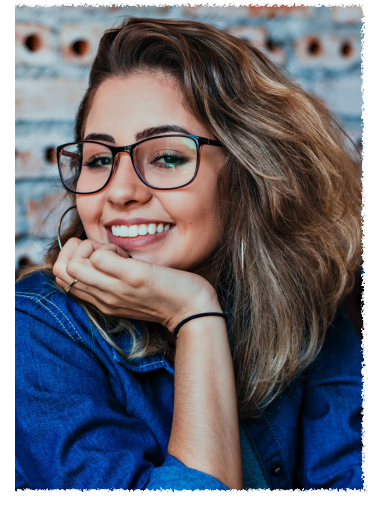
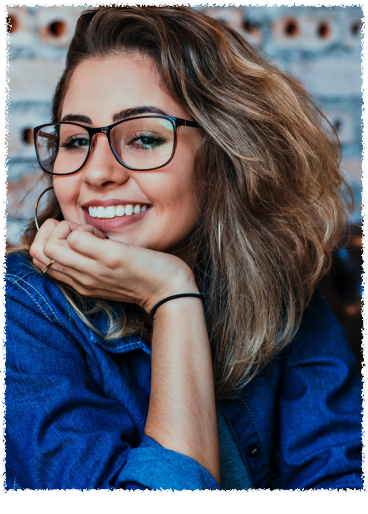
Слайдер с преподавателями

diff --git a/dev/index.html b/dev/index.html
@@ -11,6 +11,7 @@
     <link href="/css/blocks.css" rel="stylesheet">
 </head>
 <body>
+	<a href="slider.html">slider</a>
 	 <div class=" popUp" style="display: none" id="popUp">
 		<div class="popUp__window" id="popUpWindow">
 			<button class="popUp__close" id="closePopUpIcon"  aria-label="close popUp">
@@ -116,9 +117,9 @@
     	</section>
     	<section class="teachers" id="teachers">
     		<h1 class="teachers__title title title--blue">Наша команда</h1>
-    		<div class="teachers__photoContainer photoContainer">
+    		<div class="teachers__photoContainer teacherSlider">
     			<ul class="teachers__nav teacherSlider__nav">
-    				<li><button class="arrow" aria-label="Left click" id="teachersLeftButton">
+    				<li><button class="arrow arrow--disabled" aria-label="Left click" id="teachersLeftButton">
     					<svg width="80" height="55">
 							<use xlink:href="/img/sprite.svg#arrow"></use>
 						</svg>
@@ -129,20 +130,48 @@
 						</svg>
 					</button></li>
     			</ul>
-    			<ul class="teacherSlider__sliders">
-    				<li>
-		    			<figure class="teacherSlider__mainPhoto">
-		    				<img src="img/teachLitvinovaAnna.png" alt="Преподаватель — Литвинова Анна" width="380px" height="500px" class="teacherSlider__currentPhoto">
-		    				<figcaption class="teacherSlider__sign boldText">Литвинова Анна</figcaption>
-		    			</figure>
-    				</li>
-    				<li>
-		    			<figure class="teacherSlider__mainPhoto">
-		    				<img src="img/teachMelkinovaIrina.png" alt="Преподаватель — Литвинова Анна" width="380px" height="500px" class="teacherSlider__currentPhoto">
-		    				<figcaption class="teacherSlider__sign boldText">Мельникова Ирина</figcaption>
-		    			</figure>
-    				</li>    				
-    			</ul>
+    			<div>
+    			<div class="teacherSlider__viewport">
+	    			<ul class="teacherSlider__sliders" id="teachersSlider">
+	    				<li class="teacherSlider__slide">
+			    			<figure class="teacherSlider__mainPhoto">
+			    				<img src="img/teachSidorovaSofia.png" alt="Преподаватель — Сидорова София" width="380px" height="500px" class="teacherSlider__currentPhoto">
+			    				<figcaption class="teacherSlider__sign boldText">Сидорова София</figcaption>
+			    			</figure>
+	    				</li>     	    					    		
+	    				<li class="teacherSlider__slide">
+			    			<figure class="teacherSlider__mainPhoto">
+			    				<img src="img/teachTroitskaiMaria.png" alt="Преподаватель — Троицкая Мария" width="380px" height="500px" class="teacherSlider__currentPhoto">
+			    				<figcaption class="teacherSlider__sign boldText">Троицкая Мария</figcaption>
+			    			</figure>
+	    				</li>
+	    				<li class="teacherSlider__slide">
+			    			<figure class="teacherSlider__mainPhoto">
+			    				<img src="img/teachVolkovMihail.png" alt="Преподаватель — Волков Михаил" width="380px" height="500px" class="teacherSlider__currentPhoto">
+			    				<figcaption class="teacherSlider__sign boldText">Волков Михаил</figcaption>
+			    			</figure>
+	    				</li>      	
+	    				<li class="teacherSlider__slide">
+			    			<figure class="teacherSlider__mainPhoto">
+			    				<img src="img/teachPavlovAlexander.png" alt="Преподаватель — Павлов Александр" width="380px" height="500px" class="teacherSlider__currentPhoto">
+			    				<figcaption class="teacherSlider__sign boldText">Павлов Александр</figcaption>
+			    			</figure>
+	    				</li>
+	    				 <li class="teacherSlider__slide">
+			    			<figure class="teacherSlider__mainPhoto">
+			    				<img src="img/teachLitvinovaAnna.png" alt="Преподаватель — Литвинова Анна" width="380px" height="500px" class="teacherSlider__currentPhoto">
+			    				<figcaption class="teacherSlider__sign boldText">Литвинова Анна</figcaption>
+			    			</figure>
+	    				</li> 
+	    				<li class="teacherSlider__slide">
+			    			<figure class="teacherSlider__mainPhoto">
+			    				<img src="img/teachMelkinovaIrina.png" alt="Преподаватель — Мельникова Ирина" width="380px" height="500px" class="teacherSlider__currentPhoto">
+			    				<figcaption class="teacherSlider__sign boldText">Мельникова Ирина</figcaption>
+			    			</figure>
+	    				</li>    				
+	    			</ul>
+    			</div>
+    		</div>
     		</div>
     		<button class="teachers__button button button--big" id="teachersWork">
     			<svg width="297" height="92">
@@ -151,7 +180,7 @@
 				<p class="button__sign button__sign--big">Посмотреть работы</p>
 			</button>
     		<div class="teacherSlider__listWrap">
-				<ul class="teacherSlider__list">
+				<ul class="teacherSlider__list" id="teacherSliderList">
 					<li class="teacherSlider__teacher"><img src="img/teachSidorovaSofia-min.jpg" alt="Преподаватель — Сидорова София" class="teacherSlider__img"></li>
 					<li class="teacherSlider__teacher"><img src="img/teachTroitskaiMaria-min.jpg" alt="Преподаватель — Троицкая Мария" class="teacherSlider__img"></li>   
 					<li class="teacherSlider__teacher"><img src="img/teachVolkovMihail-min.jpg" alt="Преподаватель — Волков Михаил" class="teacherSlider__img"></li>
@@ -313,12 +342,10 @@
 	    			</li>
 	    			</ul>
 	    		</div>
-	    		<div class="contacts__mapWrap map__wrap">
-	    			<div>
+	    		<div class="contacts__mapWrap">
 						<div class="map">
 		    				<iframe src="https://www.google.com/maps/embed?pb=!1m18!1m12!1m3!1d1413.1943036809453!2d30.322759516107933!3d59.93946706165187!2m3!1f0!2f0!3f0!3m2!1i1024!2i768!4f13.1!3m3!1m2!1s0x4696310fb495e035%3A0x8f72a23177b41dac!2z0JHQvtC70YzRiNCw0Y8g0JrQvtC90Y7RiNC10L3QvdCw0Y8g0YPQuy4sIDQsINCh0LDQvdC60YIt0J_QtdGC0LXRgNCx0YPRgNCzLCAxOTExODY!5e0!3m2!1sru!2sru!4v1632407708108!5m2!1sru!2sru" width="600" height="400" align="right" style="border:0;" allowfullscreen="" loading="lazy"></iframe>
 		  				</div>
-	  				</div>
 				</div>						
 	    	</section>
 	    	</div>

diff --git a/dev/scripts/validationForm.js b/dev/scripts/validationForm.js
@@ -21,7 +21,7 @@ function inputValidationPhone () {
 	} else {
 		showErrorInputPhone ();
 		formInputPhone.value = phonePattern;
-	}
+	};
 }
 
 function insertCorrectPhone () {
@@ -30,28 +30,28 @@ function insertCorrectPhone () {
 	let newCurrentPhone = "";
 	while (newCurrentPhone.length<2) {
 		addSymbolToCurrentPhone ();
-	}
+	};
 	newCurrentPhone = "-" + newCurrentPhone;
 	while (newCurrentPhone.length<5) {
 		addSymbolToCurrentPhone ();
-	}
+	};
 	newCurrentPhone = "-" + newCurrentPhone;
 	while (newCurrentPhone.length<9) {
 		addSymbolToCurrentPhone ();
-	}
+	};
 	newCurrentPhone = ") " + newCurrentPhone;
 	while (newCurrentPhone.length<14) {
 		addSymbolToCurrentPhone ();
-	}
+	};
 	newCurrentPhone = "+7 (" + newCurrentPhone;
 	
 	function addSymbolToCurrentPhone () {
 		let currentSymbol = "_";
 		while ((isNaN(currentSymbol) || currentSymbol == " ") && currentPhoneIndex>=0) {
 			currentSymbol = currentPhone[currentPhoneIndex--];	
-		}
+		};
 		newCurrentPhone = currentSymbol + newCurrentPhone; 
-	}	
+	};
 
 	formInputPhone.value = newCurrentPhone; 
 } 
@@ -83,7 +83,7 @@ function keydownOnInputPhone (event) {
 		if (numCurrentChar>18) {
 			event.preventDefault();
 			return;	
-		}
+		};
 		let nextElement;
 		event.preventDefault();
 		nextElement = currentValue.charAt(numCurrentChar);
@@ -91,11 +91,11 @@ function keydownOnInputPhone (event) {
 			nextElement = currentValue.charAt(++numCurrentChar);
 			if (numCurrentChar>19) {
 				return;
-			}
-		}	
+			};
+		};	
 		formInputPhone.value = currentValue.substring(0, numCurrentChar) + key +  currentValue.substring(numCurrentChar+1);	
 		setPositionInputPhone(formInputPhone, ++numCurrentChar);
-	} 
+	};
 	if (event.key == "Backspace") {
 		event.preventDefault();
 		let currentChar;
@@ -107,7 +107,7 @@ function keydownOnInputPhone (event) {
 		} while ((isNaN(currentChar) || currentChar == " ") && currentChar != "_");
 		formInputPhone.value = currentValue.substring(0, numCurrentChar) + "_" +  currentValue.substring(numCurrentChar+1);	
 		setPositionInputPhone(formInputPhone, numCurrentChar);
-		}
+		};
 
 	if (event.key == "ArrowLeft") {
 		event.preventDefault();
@@ -124,7 +124,7 @@ function focusOnInputPhone (event) {
 	event.preventDefault();
 	if (formInputPhone.value === "") {
 		formInputPhone.value = phonePattern;
-	}
+	};
 	setPositionInputPhone(event.target);
 }
 

diff --git a/dev/scripts/teachersSlider.js b/dev/scripts/teachersSlider.js
@@ -1,0 +1,76 @@
+"use strict";
+
+let teachersLeftButton = document.getElementById("teachersLeftButton");
+let teachersRightButton = document.getElementById("teachersRightButton");
+let slideIndex = 0;
+let teacherSliderList = document.getElementById("teacherSliderList");
+let numSliders = teachersSlider.querySelectorAll("li").length-1;
+
+teachersLeftButton.addEventListener("click", teachersArrowClick);
+teachersRightButton.addEventListener("click", teachersArrowClick);
+teacherSliderList.addEventListener("click", teacherSliderListClick);
+
+function teacherSliderListClick (event) {
+	let OffsetWidth;
+	if (event.target.tagName === "IMG") {
+		slideIndex = getNewSlideIndex (event.target);
+		OffsetWidth = getOffsetWidth (slideIndex);
+		moveSlide(OffsetWidth);
+		toggleArrows (slideIndex);
+	};
+}
+
+function getOffsetWidth (index) {
+	return teachersSlider.offsetWidth * index; 
+} 
+
+function getNewSlideIndex (newSlide) {
+	let allitemList = teacherSliderList.querySelectorAll(".teacherSlider__img");
+	for (let index = 0; index < allitemList.length; ++index) {
+    	if (allitemList[index] === newSlide) {
+    		return index;
+    	}
+	}
+}
+
+function teachersArrowClick (event) {
+	if (!event.currentTarget.classList.contains("arrow--disabled")) {
+		if (event.currentTarget == teachersLeftButton) {
+			moveSlideByArrow("Left");
+		} else if (event.currentTarget == teachersRightButton) {
+			moveSlideByArrow("Right");
+		}	
+	}	
+}
+
+function moveSlideByArrow (moveDirection = "Right") {
+	let teachersSlider = document.getElementById("teachersSlider");
+	let offsetWidth; 
+	if (moveDirection === "Right") {
+		slideIndex++;
+	}  else if (moveDirection === "Left") {		
+		slideIndex--;
+	}
+	offsetWidth = getOffsetWidth(slideIndex);  
+	moveSlide (offsetWidth);
+	toggleArrows (slideIndex);
+}
+
+function moveSlide (offsetWidth) {
+	teachersSlider.style.transform = `translateX(-${offsetWidth}px)`;
+}
+
+function toggleArrows (slideIndex) {
+	if (slideIndex === 0) {
+		teachersLeftButton.classList.add("arrow--disabled");	
+	} else {
+		teachersLeftButton.classList.remove("arrow--disabled");			
+	}
+
+	if (slideIndex === numSliders) {
+		teachersRightButton.classList.add("arrow--disabled");	
+	} else {
+		teachersRightButton.classList.remove("arrow--disabled");			
+	}
+} 
+

diff --git a/dev/sass/blocks.sass b/dev/sass/blocks.sass
@@ -260,15 +260,31 @@
 	width: 112px
 	height: 96px	
 
-.photoContainer
+.teacherSlider
 	position: relative
 	@media screen and (max-width: $mSize)
 		min-height: 600px
 		width: auto
 
+.teacherSlider__viewport
+	position: relative
+	width: 380px
+	height: 507px
+	margin: 0 auto
+	left: 0
+	right: 0
+	overflow: hidden
+
 .teacherSlider__sliders
 	display: flex
-	
+	transition: .25s ease-in-out
+
+.teacherSlider__slide
+	width: 380px
+	height: 507px
+	flex-shrink: 0
+	display: flex
+
 
 .teacherSlider__nav
 	display: flex
@@ -288,6 +304,7 @@
 		left: 0
 		right: 0
 		width: 200px
+
 
 
 .teacherSlider__mainPhoto
@@ -317,8 +334,15 @@
 
 .arrow--disabled
 	color: $disabled
+	cursor: default	
+
+.arrow--disabled:hover
+	color: $disabled
 	cursor: default		
 
+.arrow--disabled:active
+	color: $disabled
+	cursor: default		
 
 .arrow--right
 	transform: rotate(180deg)	
@@ -593,7 +617,6 @@
 	width: 1200px
 	@media screen and (max-width: $lSize)
 		position: static
-		width: 100
 		width: 600px
 		height: 400px
 

diff --git a/dev/sass/layout.sass b/dev/sass/layout.sass
@@ -242,6 +242,9 @@
 	width: 770px
 	margin: 0 auto
 	margin-bottom: 25px
+	overflow-x: hidden
+	display: flex
+	justify-content: center
 
 
 .teachers__button	
@@ -274,18 +277,7 @@
 		background-position: right -250px top
 	@media screen and (max-width: $sSize)	
 		background-position: right -300px top 120px
-	// @media screen and (max-width: $xsSize)
-	// 	background-position: right -300px top 160px			
 
-// .captureForm::before
-// 	background-image: url("/img/bgGirlWatercolor.png")
-// 	background-repeat: no-repeat
-// 	background-position: right
-// 	position: absolute
-// 	width: 1600px
-// 	left: 0
-// 	height: 575px
-// 	content: ""
 
 .captureForm__text
 	@media screen and (max-width: $mSize)	
@@ -355,6 +347,7 @@
 		overflow-x: hidden
 		display: flex
 		justify-content: center	
+		z-index: 0
 
 .contacts__title
 	margin-bottom: 16px
